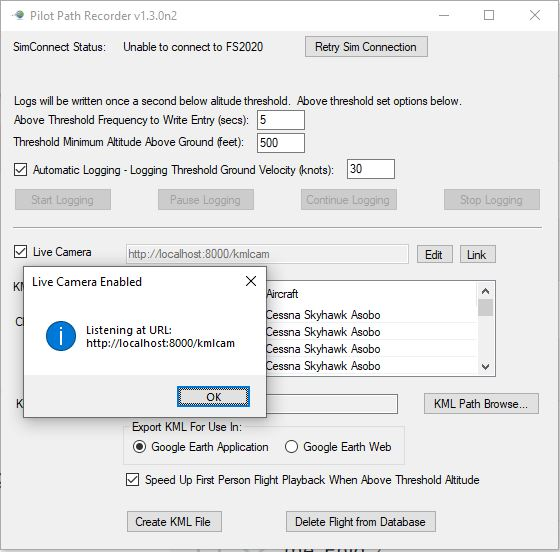
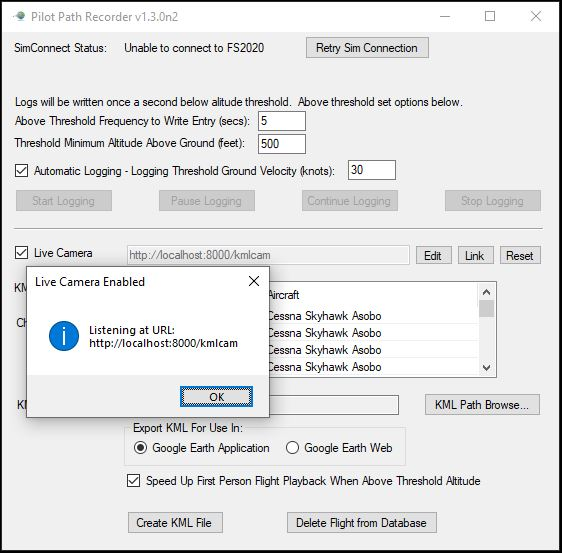
Added 'LiveCam Reset' button

diff --git a/FS2020PlanePath/MainPage.cs b/FS2020PlanePath/MainPage.cs
@@ -798,12 +798,7 @@ namespace FS2020PlanePath
             {
                 // re-enable the user to change the live camera's URI
                 LiveCameraHostPortTB.Enabled = true;
-                MessageBox.Show(
-                    "No longer listening.", 
-                    "Live Camera Disabled",
-                    MessageBoxButtons.OK,
-                    MessageBoxIcon.Information
-                );
+                displayMessage("Live Camera Disabled", "No longer listening.");
                 return;
             }
 
@@ -855,13 +850,7 @@ namespace FS2020PlanePath
 
             // prevent modification of the live camera's URI while it's active
             LiveCameraHostPortTB.Enabled = false;
-            MessageBox.Show(
-                "Listening at URL:\n" + hostUri, 
-                "Live Camera Enabled",
-                MessageBoxButtons.OK,
-                MessageBoxIcon.Information
-            );
-
+            displayMessage("Live Camera Enabled", "Listening at URL:\n" + hostUri);
         }
 
         private void LiveCameraKml_Click(object sender, EventArgs e)
@@ -930,12 +919,7 @@ namespace FS2020PlanePath
                 if (changeList.Count > 0)
                 {
                     liveCamRegistry.Save(liveCam.Link.Values.alias, liveCam);
-                    MessageBox.Show(
-                        $"Live Camera Definition ({string.Join(", ", changeList)} KML) was Changed",
-                        "Live Camera Update",
-                        MessageBoxButtons.OK,
-                        MessageBoxIcon.Information
-                    );
+                    displayMessage("Live Camera Update", $"Live Camera Definition ({string.Join(", ", changeList)} KML) was Changed");
                 }
 
             }
@@ -995,16 +979,6 @@ namespace FS2020PlanePath
             }
         }
 
-        private string malformedUriErrorMessage(string url, UriFormatException ufe)
-        {
-            return $"Malformed URI: {url}.\n\nDetails: {ufe.Message}\n\nTry e.g.: 'http://localhost:8000/kmlcam'";
-        }
-
-        private void displayError(string caption, string details)
-        {
-            MessageBox.Show($"Details:\n{details}", caption, MessageBoxButtons.OK, MessageBoxIcon.Error);
-        }
-
         private void ValidateNetworkLink(object sender, CancelEventArgs e)
         {
             string liveCamUrl = LiveCameraHostPortTB.Text;
@@ -1017,6 +991,57 @@ namespace FS2020PlanePath
             }
             
         }
+
+        private void Handle_LiveCameraKmlResetBT_Click(object sender, EventArgs e)
+        {
+            KmlLiveCam liveCam;
+            if (!liveCamRegistry.TryGetById(LiveCamRegistry.GetAlias(LiveCameraHostPortTB.Text), out liveCam))
+            {
+                return;
+            }
+            
+            if (!LiveCamRegistry.IsDefaultDefinition(liveCam))
+            {
+                if (!obtainConfirmation("Confirm Reset", $"Discard changes for:\n{liveCam.Link.Values.url}"))
+                {
+                    return;
+                }
+            }
+
+            liveCamRegistry.Delete(liveCam.Link.Values.alias);
+        }
+
+        private string malformedUriErrorMessage(string url, UriFormatException ufe)
+        {
+            return $"Malformed URI: {url}.\n\nDetails: {ufe.Message}\n\nTry e.g.: 'http://localhost:8000/kmlcam'";
+        }
+
+        private void displayError(string caption, string details)
+        {
+            MessageBox.Show($"Details:\n{details}", caption, MessageBoxButtons.OK, MessageBoxIcon.Error);
+        }
+
+        private void displayMessage(string caption, string details)
+        {
+            MessageBox.Show(
+                details,
+                caption,
+                MessageBoxButtons.OK,
+                MessageBoxIcon.Information
+            );
+        }
+
+        private bool obtainConfirmation(string caption, string details)
+        {
+            DialogResult confirmationAnswer = MessageBox.Show(
+                details,
+                caption,
+                MessageBoxButtons.YesNo,
+                MessageBoxIcon.Question
+            );
+            return (DialogResult.Yes == confirmationAnswer);
+        }
+
     }
 
 }

diff --git a/FS2020PlanePath/MainPage.Designer.cs b/FS2020PlanePath/MainPage.Designer.cs
@@ -63,6 +63,7 @@
             this.LiveCameraKmlBT = new System.Windows.Forms.Button();
             this.toolTip1 = new System.Windows.Forms.ToolTip(this.components);
             this.geLinkBT = new System.Windows.Forms.Button();
+            this.LiveCameraKmlResetBT = new System.Windows.Forms.Button();
             this.SuspendLayout();
             // 
             // label2
@@ -364,7 +365,7 @@
             // 
             // LiveCameraKmlBT
             // 
-            this.LiveCameraKmlBT.Location = new System.Drawing.Point(415, 213);
+            this.LiveCameraKmlBT.Location = new System.Drawing.Point(413, 213);
             this.LiveCameraKmlBT.Name = "LiveCameraKmlBT";
             this.LiveCameraKmlBT.Size = new System.Drawing.Size(38, 20);
             this.LiveCameraKmlBT.TabIndex = 29;
@@ -375,7 +376,7 @@
             // 
             // geLinkBT
             // 
-            this.geLinkBT.Location = new System.Drawing.Point(458, 213);
+            this.geLinkBT.Location = new System.Drawing.Point(455, 213);
             this.geLinkBT.Name = "geLinkBT";
             this.geLinkBT.Size = new System.Drawing.Size(38, 20);
             this.geLinkBT.TabIndex = 30;
@@ -384,11 +385,23 @@
             this.geLinkBT.UseVisualStyleBackColor = true;
             this.geLinkBT.Click += new System.EventHandler(this.geLinkBT_Click);
             // 
+            // LiveCameraKmlResetBT
+            // 
+            this.LiveCameraKmlResetBT.Location = new System.Drawing.Point(497, 213);
+            this.LiveCameraKmlResetBT.Name = "LiveCameraKmlResetBT";
+            this.LiveCameraKmlResetBT.Size = new System.Drawing.Size(43, 20);
+            this.LiveCameraKmlResetBT.TabIndex = 31;
+            this.LiveCameraKmlResetBT.Text = "Reset";
+            this.toolTip1.SetToolTip(this.LiveCameraKmlResetBT, "Reset Selected Live Camera Definition (i.e. Discard Edits)");
+            this.LiveCameraKmlResetBT.UseVisualStyleBackColor = true;
+            this.LiveCameraKmlResetBT.Click += new System.EventHandler(this.Handle_LiveCameraKmlResetBT_Click);
+            // 
             // MainPage
             // 
             this.AutoScaleDimensions = new System.Drawing.SizeF(6F, 13F);
             this.AutoScaleMode = System.Windows.Forms.AutoScaleMode.Font;
             this.ClientSize = new System.Drawing.Size(557, 518);
+            this.Controls.Add(this.LiveCameraKmlResetBT);
             this.Controls.Add(this.geLinkBT);
             this.Controls.Add(this.LiveCameraKmlBT);
             this.Controls.Add(this.LiveCameraHostPortTB);
@@ -465,6 +478,7 @@
         private System.Windows.Forms.Button LiveCameraKmlBT;
         private System.Windows.Forms.ToolTip toolTip1;
         private System.Windows.Forms.Button geLinkBT;
+        private System.Windows.Forms.Button LiveCameraKmlResetBT;
     }
 }
 

diff --git a/FS2020PlanePath/LiveCamRegistry.cs b/FS2020PlanePath/LiveCamRegistry.cs
@@ -72,7 +72,7 @@ namespace FS2020PlanePath
 
         public bool Delete(string alias)
         {
-            return persistentRegistry.Delete(alias) && cacheRegistry.Delete(alias);
+            return cacheRegistry.Delete(alias) && persistentRegistry.Delete(alias);
         }
 
         public List<string> GetAliases()
@@ -90,6 +90,14 @@ namespace FS2020PlanePath
         public static string GetAlias(string liveCamUrl)
         {
             return ParseNetworkLink(liveCamUrl).AbsolutePath.Substring(1);
+        }
+
+        public static bool IsDefaultDefinition(KmlLiveCam kmlLiveCam)
+        {
+            return (
+                kmlLiveCam.Camera.Template == LiveCamConstants.DefaultCameraKmlTemplate
+             && kmlLiveCam.Link.Template == LiveCamConstants.DefaultNetworkLinkKmlTemplate   
+            );
         }
 
         public static KmlLiveCam DefaultLiveCam(string alias, string url)

diff --git a/FS2020PlanePath/FilesystemRegistry .cs b/FS2020PlanePath/FilesystemRegistry .cs
@@ -56,12 +56,14 @@ namespace FS2020PlanePath
 
         public bool Delete(string id)
         {
+            string fileName = FilenameForId(id);
             try
             {
-                File.Delete(FilenameForId(id));
+                File.Delete(fileName);
                 return true;
             } catch(Exception e)
             {
+                Console.WriteLine($"Error deleting({fileName}); exceptionMessage({e.Message})");
                 return false;
             }
         }

diff --git a/README-kmlcam.md b/README-kmlcam.md
@@ -65,7 +65,7 @@ it from within Google Earth to restore synchronization once the link becomes rea
 
 ## Extras
 
-Two extra buttons appearing to the right of the Network Link URL can be used to customize
+The extra buttons appearing to the right of the Network Link URL can be used to customize
 the "Live Camera", as follows:
 
 - Use the `Edit` button to customize the templates used to build the "Network Link" or
@@ -73,6 +73,9 @@ the "Live Camera", as follows:
 
 - Use `Link` to install the Network Link directly into Google Earth (presuming it's installed
     and is the handler for `.kml` files), which will be launched if not currently running.
+
+- `Reset` allows you to discard any edits made to the Live Camera configuration by restoring
+    the initial (default) configuration.   
 
 - _See the [KML Reference](https://developers.google.com/kml/documentation/kmlreference) for details_
 
